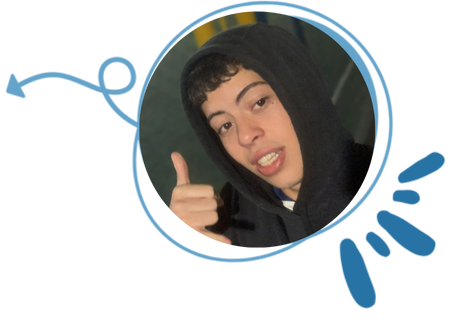
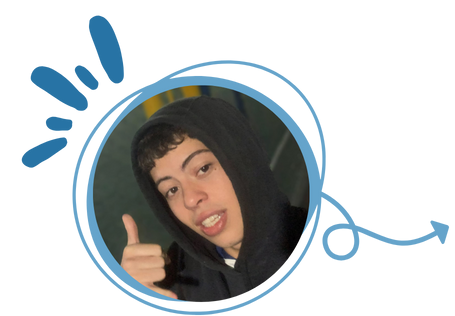
Mudanças na página de sobre
Adicionando a foto do Lucas e alterando a imagem do Gabriel que estava ao contrário

diff --git a/src/pages/Sobre/sobre.tsx b/src/pages/Sobre/sobre.tsx
@@ -84,7 +84,7 @@ export function Sobre() {
             <Header />
             <main className="w-4/5 mt-[40%] lg:mt-[175px] flex flex-col items-center gap-4 mb-10">
                 <div className="text-center border-b-4 border-[#004AAD] w-fit mb-12">
-                    <h1 className="text-3xl">{t('slogan')}</h1>
+                    <h1 className="text-3xl text-[#475459]">{t('slogan')}</h1>
                 </div>
 
                 <Content 
